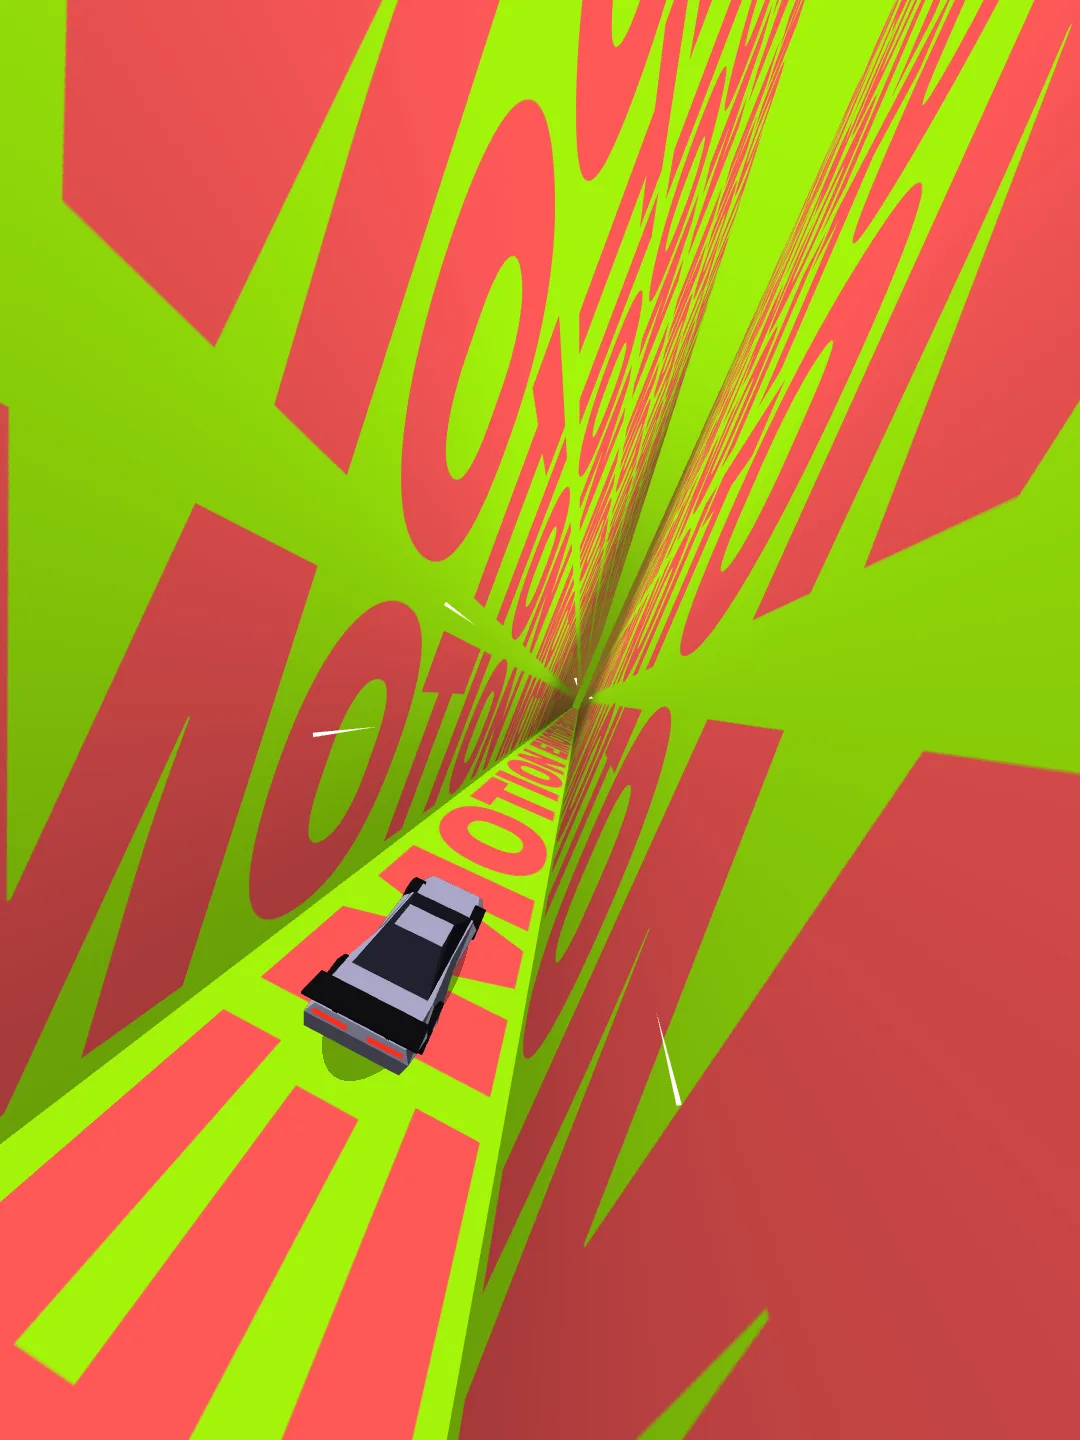
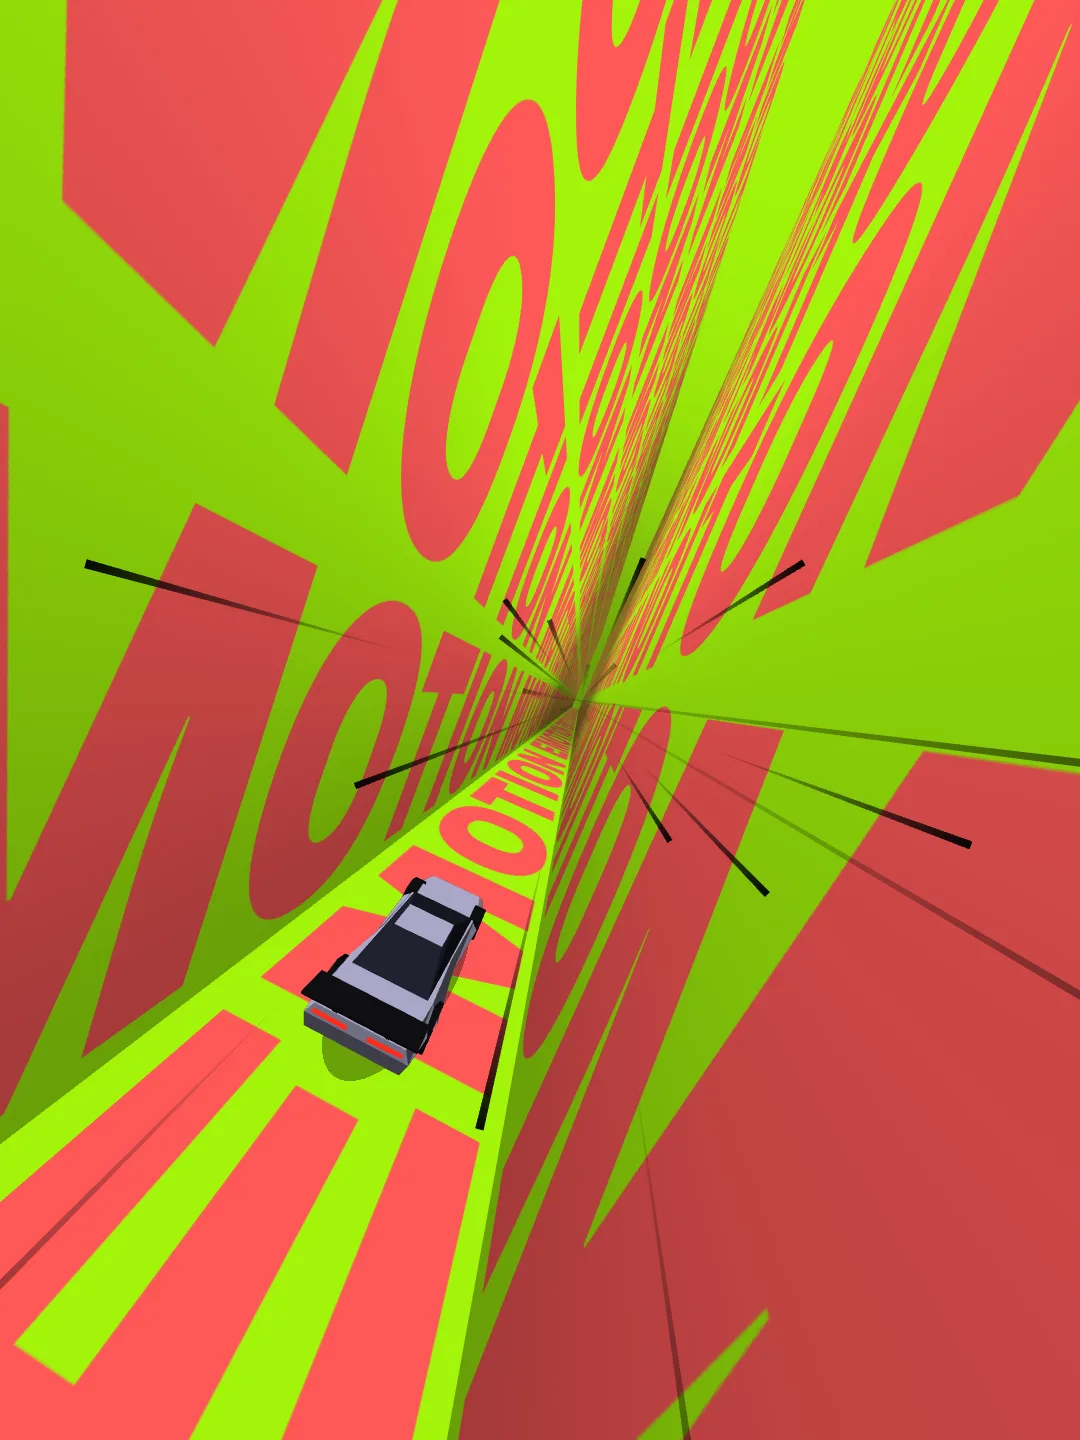
Corredor: nuevos defaults de las líneas de velocidad
30 líneas negras, largo 0.91, grosor 10.9 px, 9 pasadas por loop.

Claude-Session: https://claude.ai/code/session_015Ei6rKT9R3QTQAPas9teZr

diff --git a/public/tools/corredor.html b/public/tools/corredor.html
@@ -836,7 +836,7 @@ const BASE={
   fondo:'#A3F50A', tinta:'#FE5858', cielo:'#A3F50A', nieblaColor:'#0A0A0A', niebla:.38, nieblaInicio:4.5, degradadoCielo:.89,
   sombra:.35, sombraAlto:2.5,   // sombra en las paredes desde el suelo
   // líneas de velocidad: salen del punto de fuga y pasan junto a la cámara
-  lineas:8, lineasLargo:.3, lineasGrosor:7, lineasVel:10, lineasColor:'#FFFFFF',
+  lineas:30, lineasLargo:.91, lineasGrosor:10.9, lineasVel:9, lineasColor:'#000000',
   // carro deportivo low-poly: se queda frente a la cámara y el pasillo corre bajo él
   carro:true, carroColor:'#A9A7C7', carroDist:1.25, carroX:0, carroEscala:.61, carroPixel:1, carroRebote:.42,
 };
